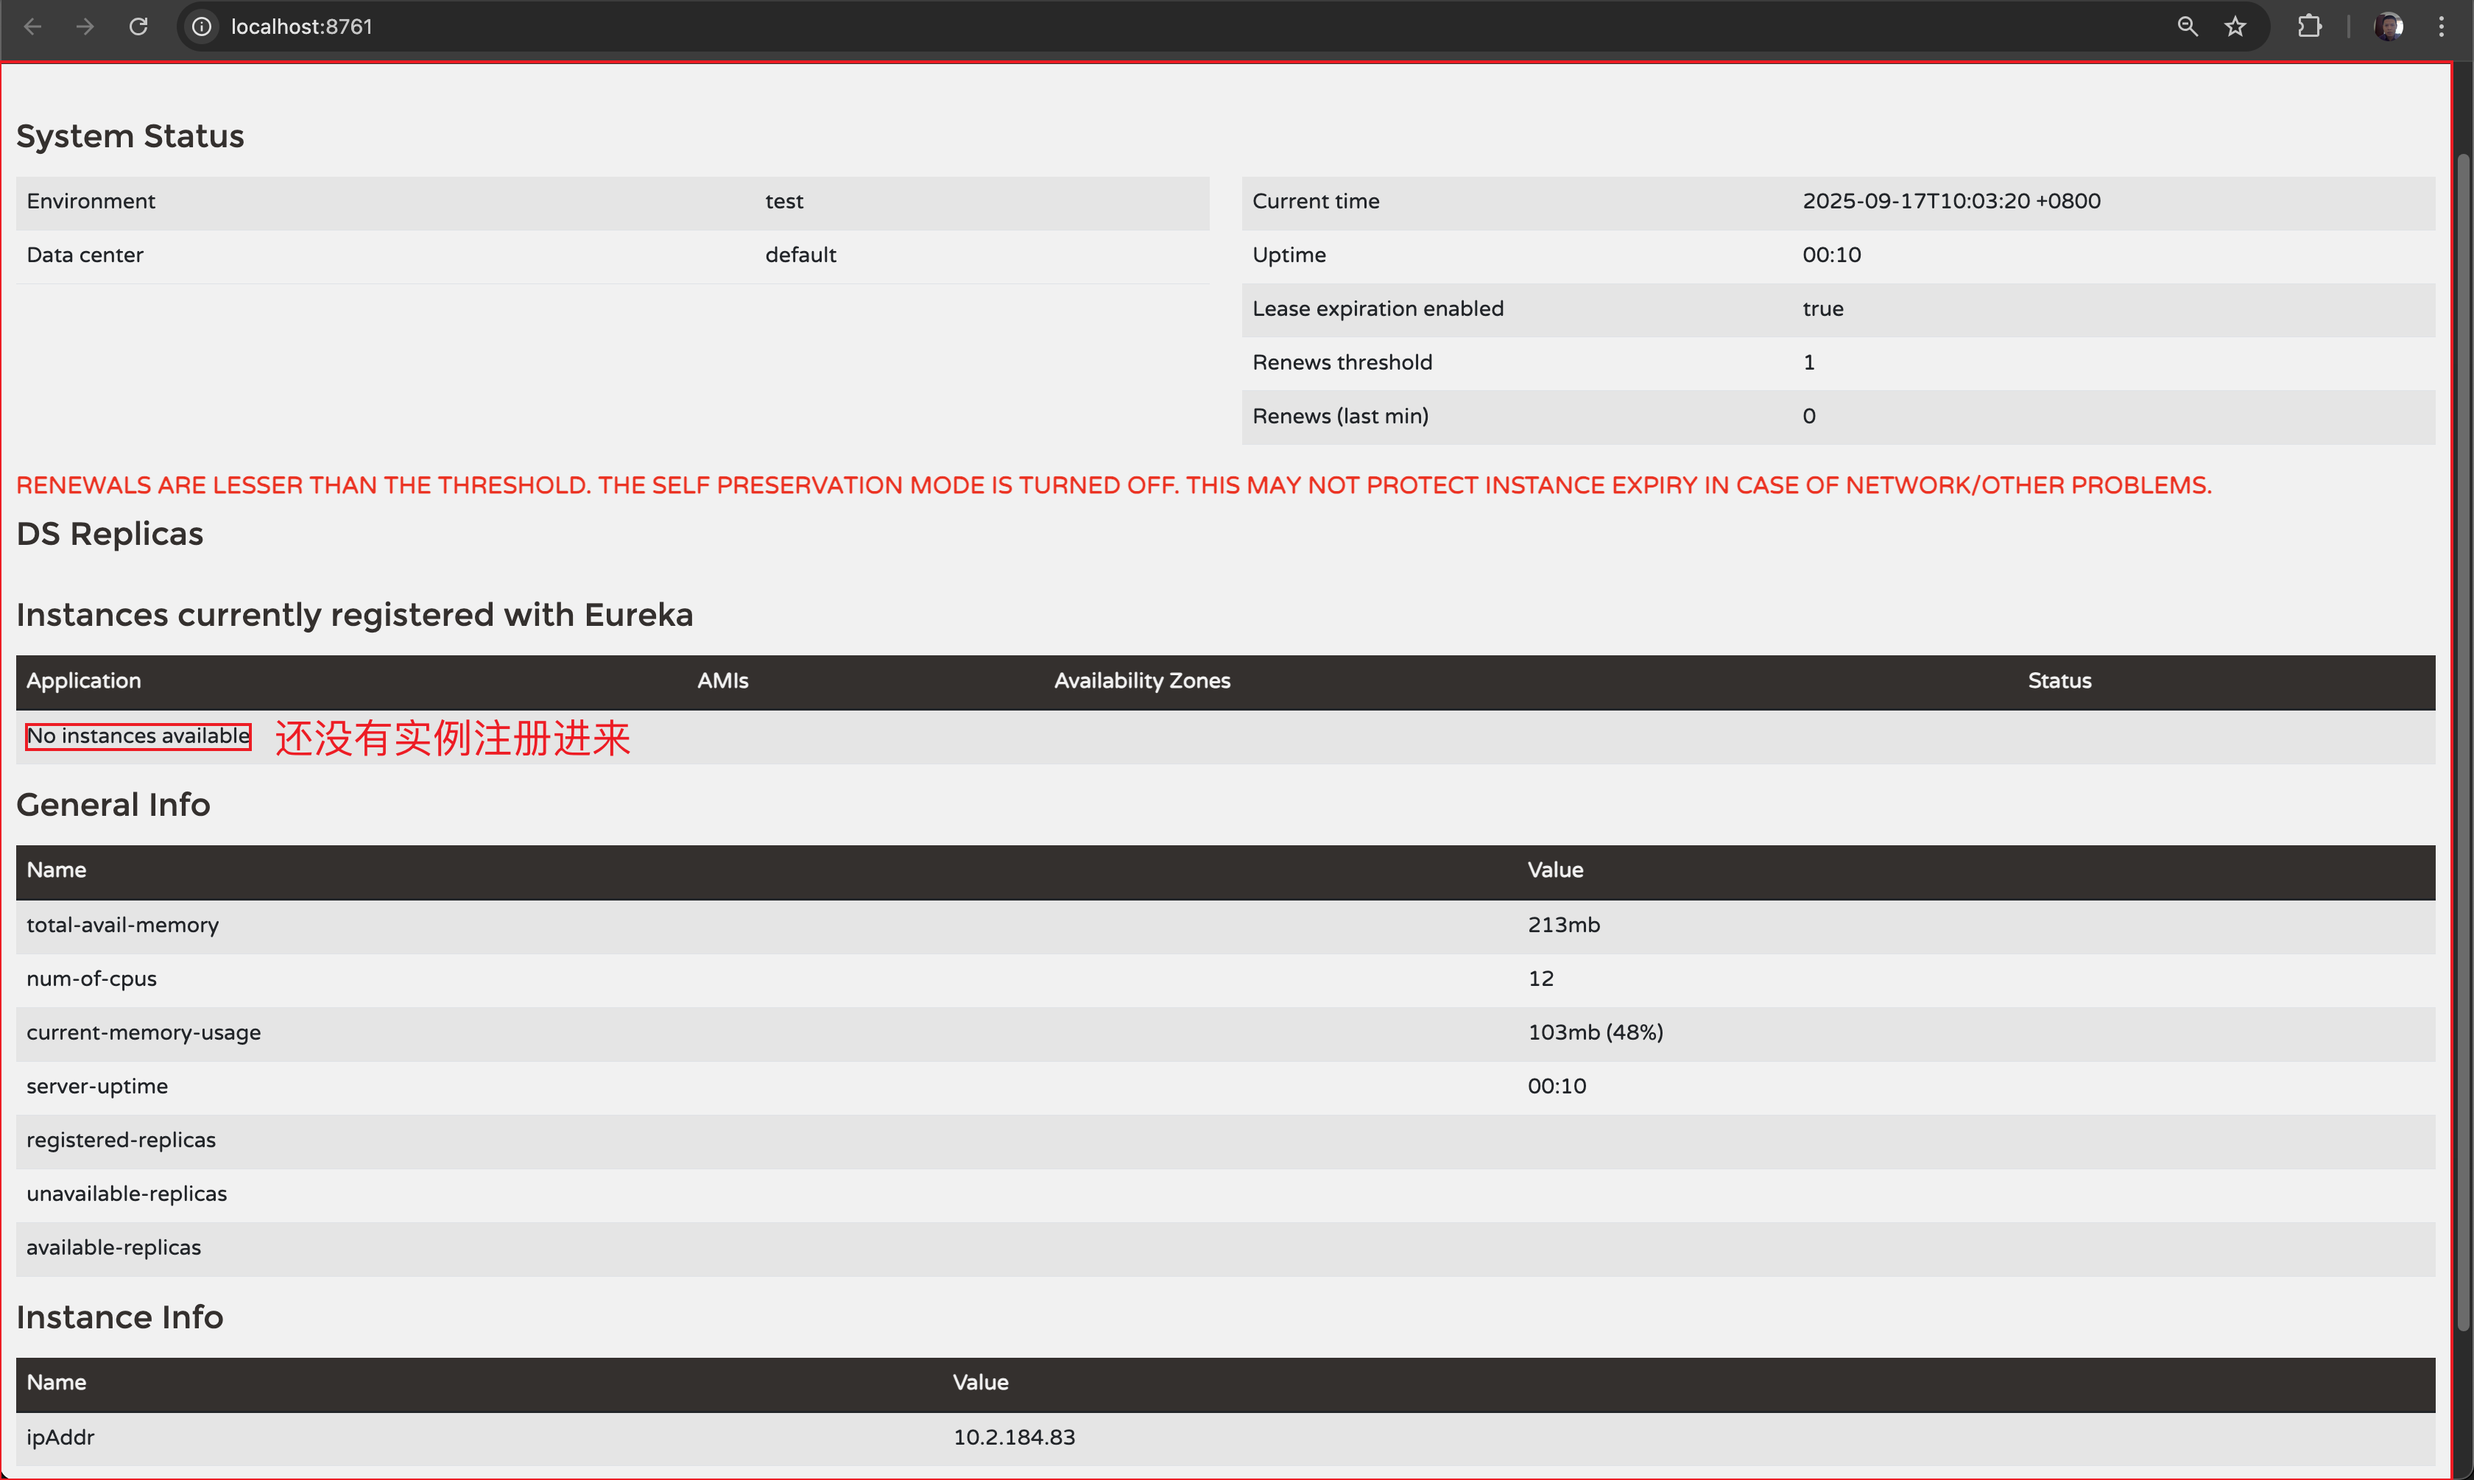
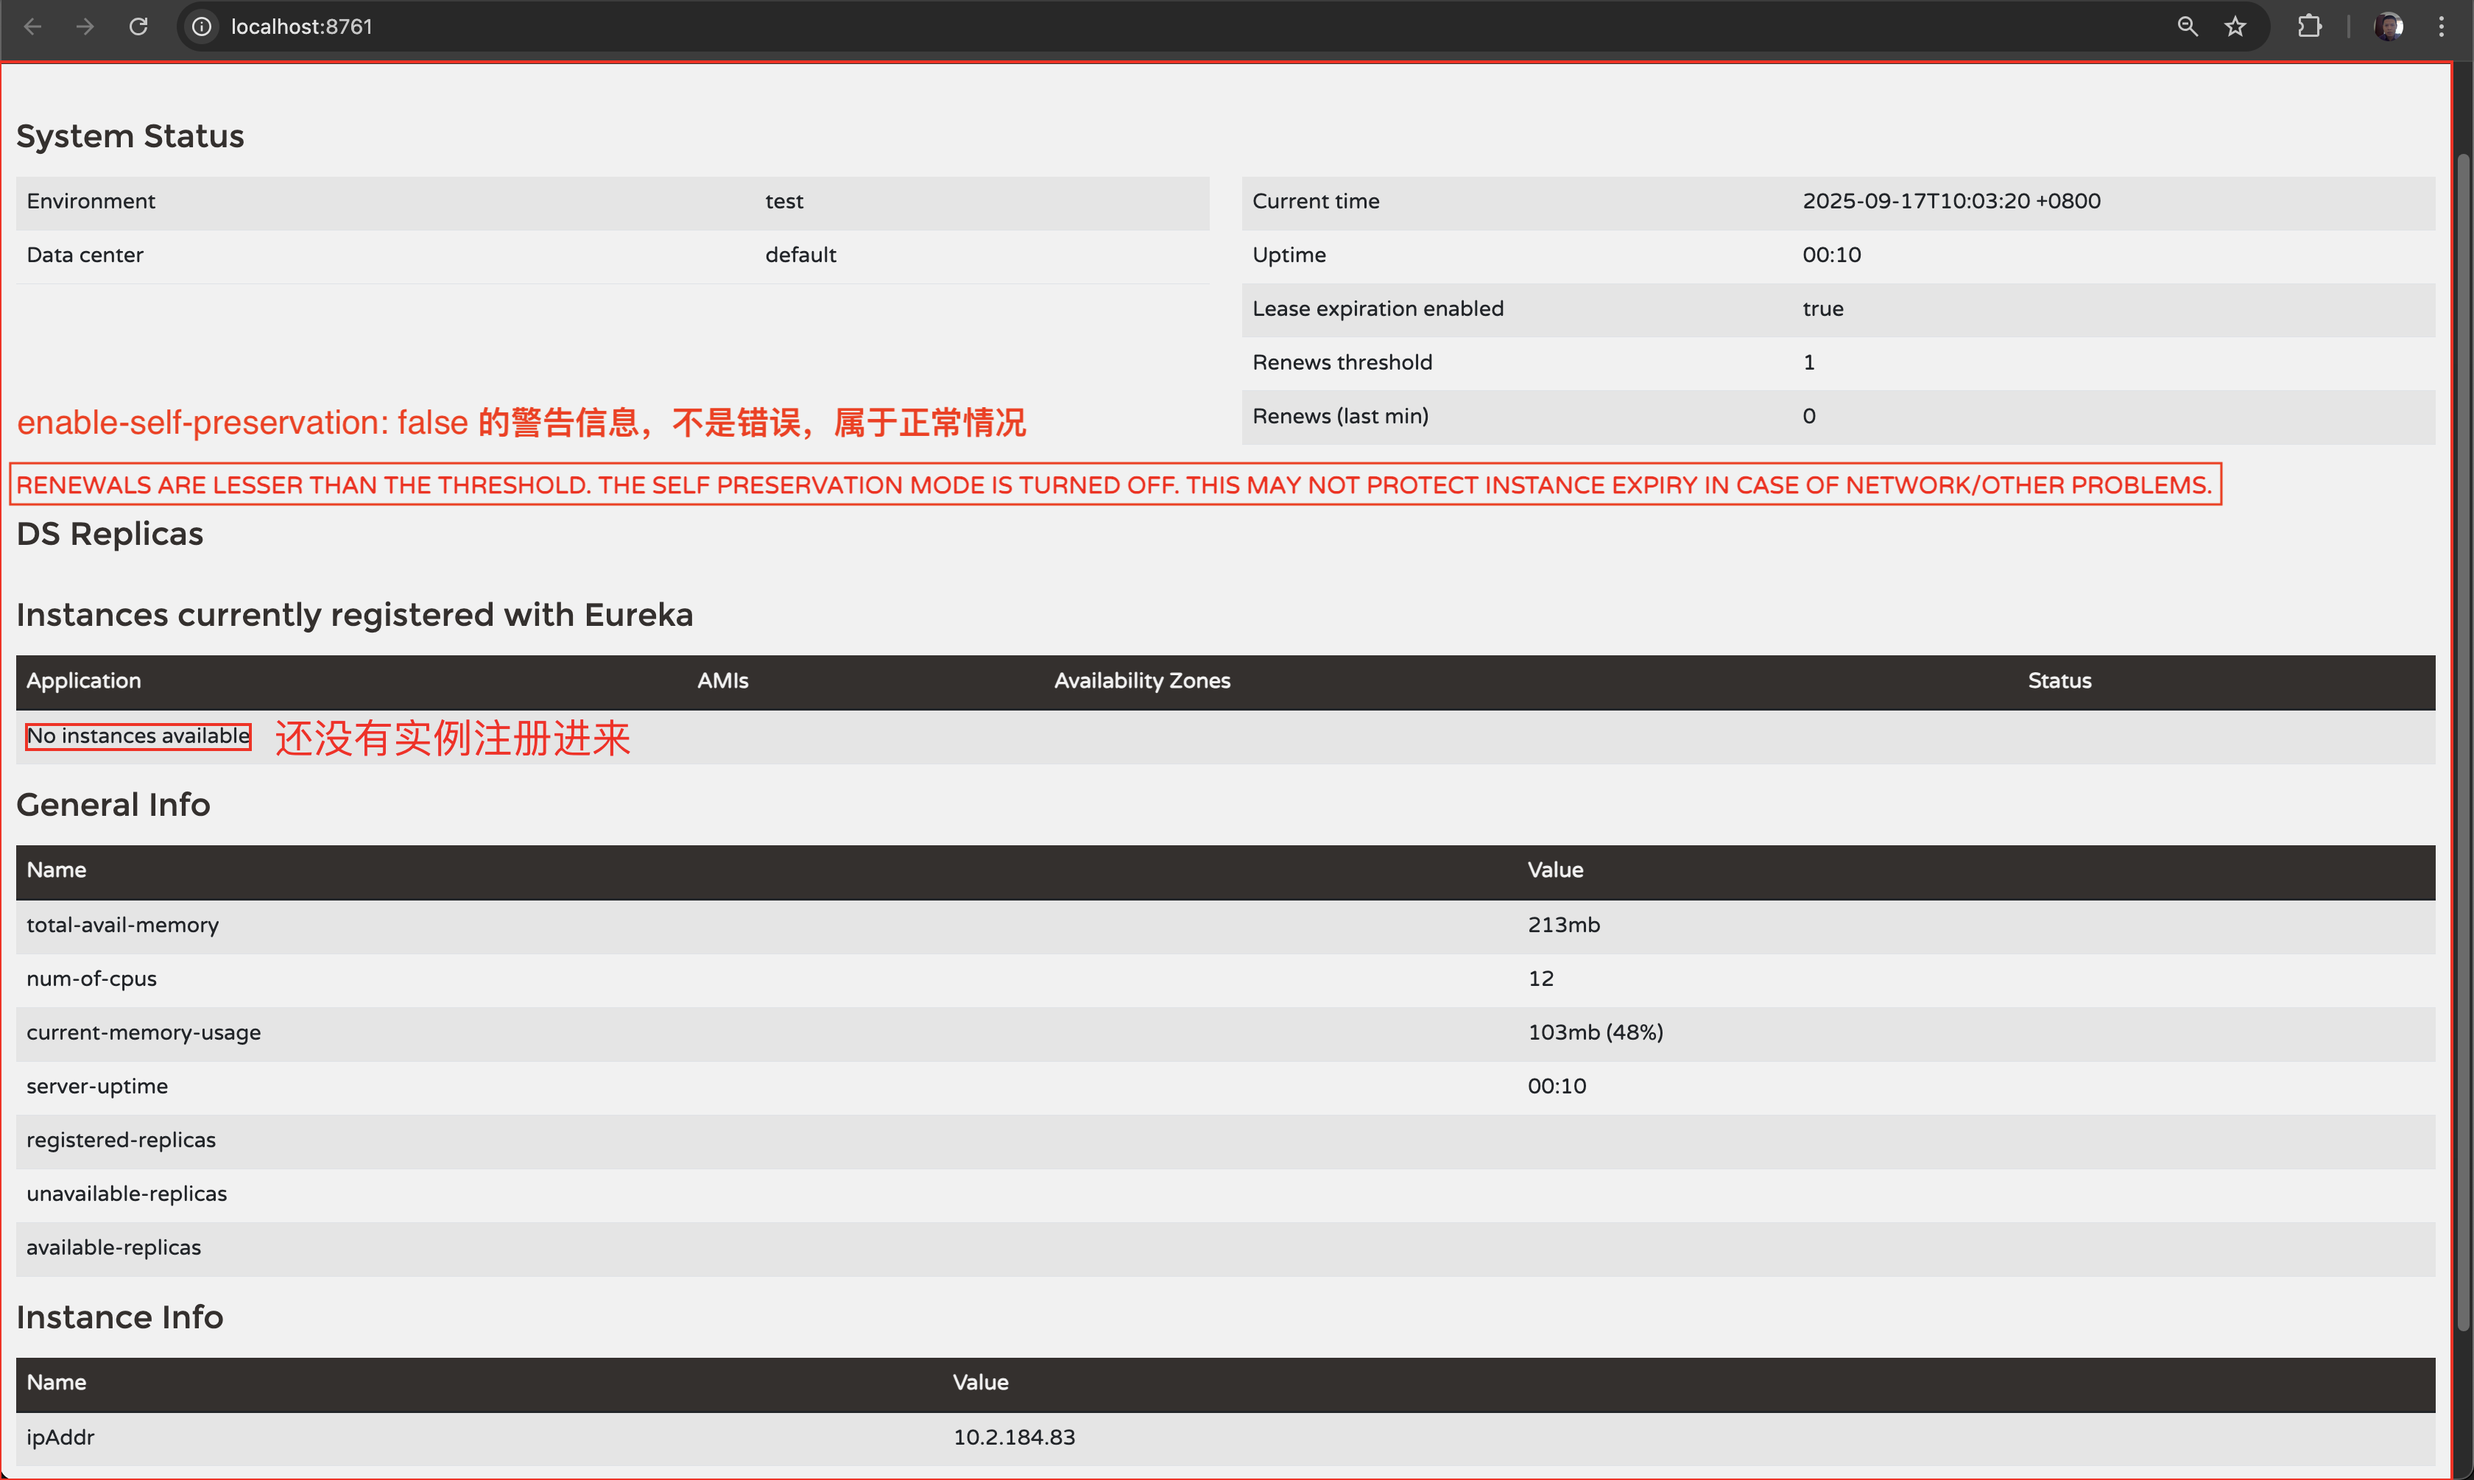
docs(SpringCloud): Upade 图片文档

Changed region(s): [[0.0, 0.2776, 0.4062, 0.3085]]

diff --git a/java/SpringCloud/SpringClound.html b/java/SpringCloud/SpringClound.html
@@ -2197,7 +2197,7 @@ public class EurekaApplication {</p>
 <div class="literalblock">
 <div class="content">
 <pre>server:
-  enable-self-preservation: false  # 6. 关闭自我保护机制（开发环境建议关闭）</pre>
+  enable-self-preservation: false  # 6. 关闭自我保护机制（开发环境建议关闭，但是会有红色警告提示，属于正常）</pre>
 </div>
 </div>
 </div>
@@ -2993,7 +2993,7 @@ import org.springframework.web.reactive.function.client.WebClient;</p>
 </div>
 <div id="footer">
 <div id="footer-text">
-Last updated 2025-09-21 18:47:08 +0800
+Last updated 2025-09-21 19:33:45 +0800
 </div>
 </div>
 <script type="text/x-mathjax-config">
